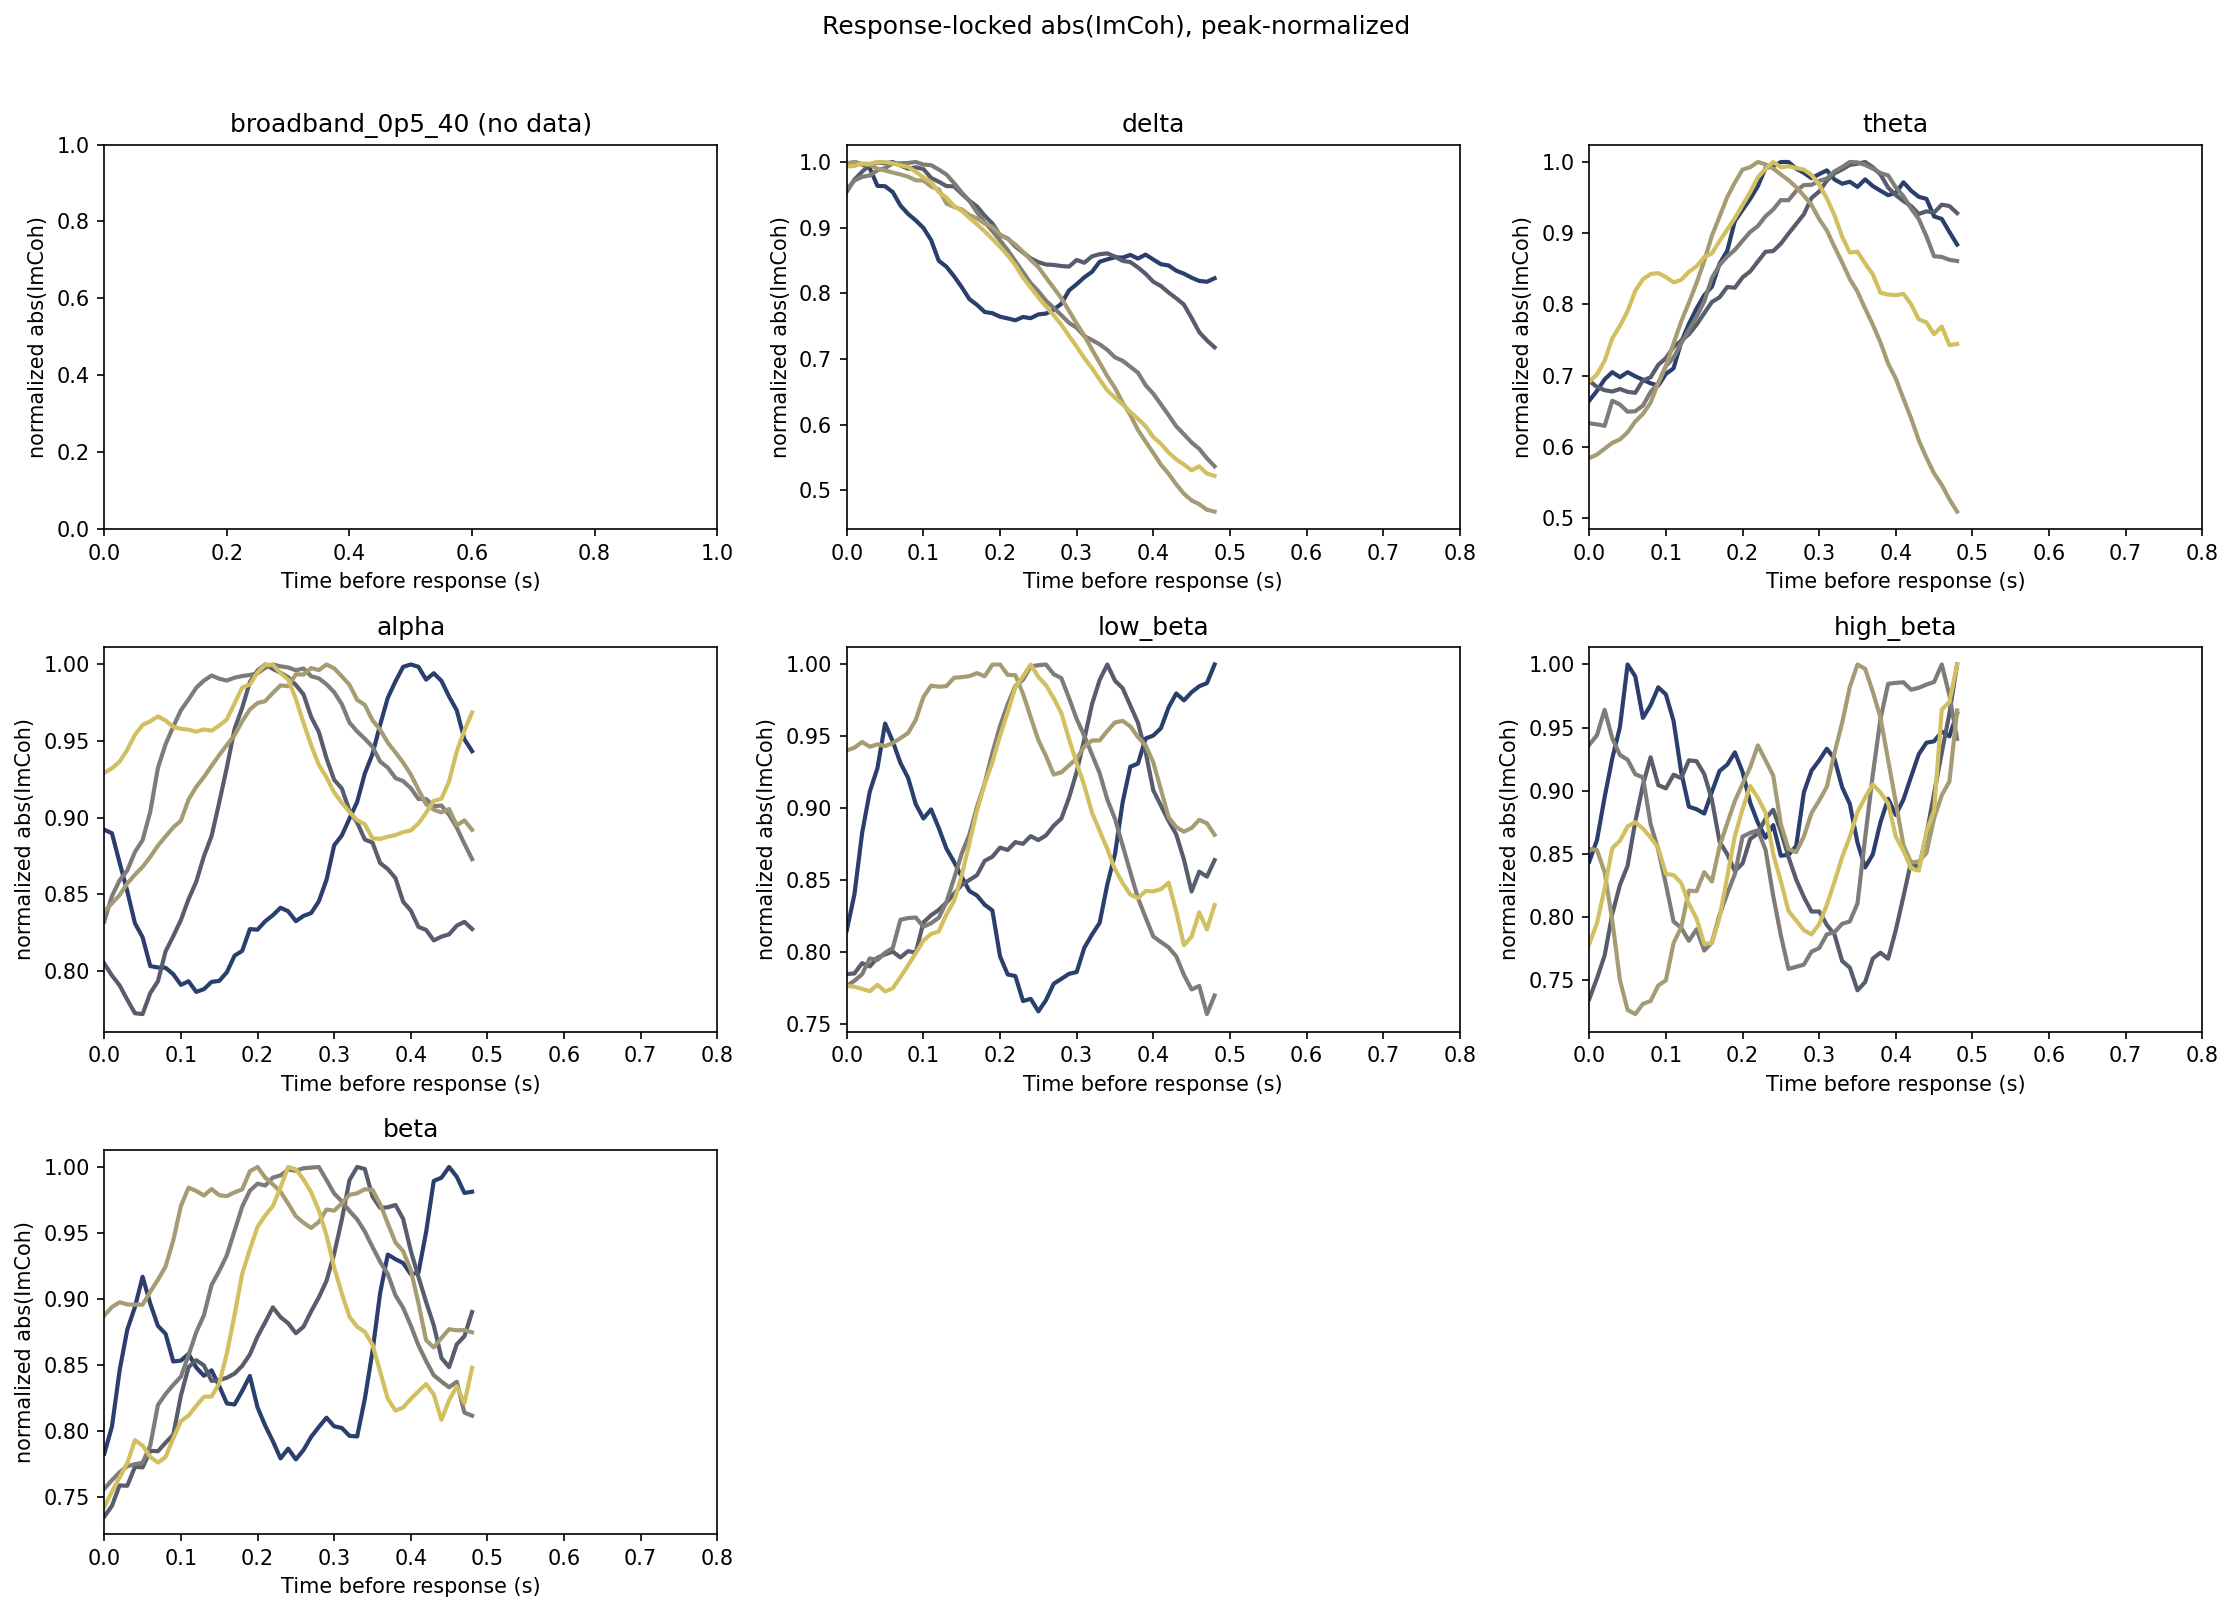
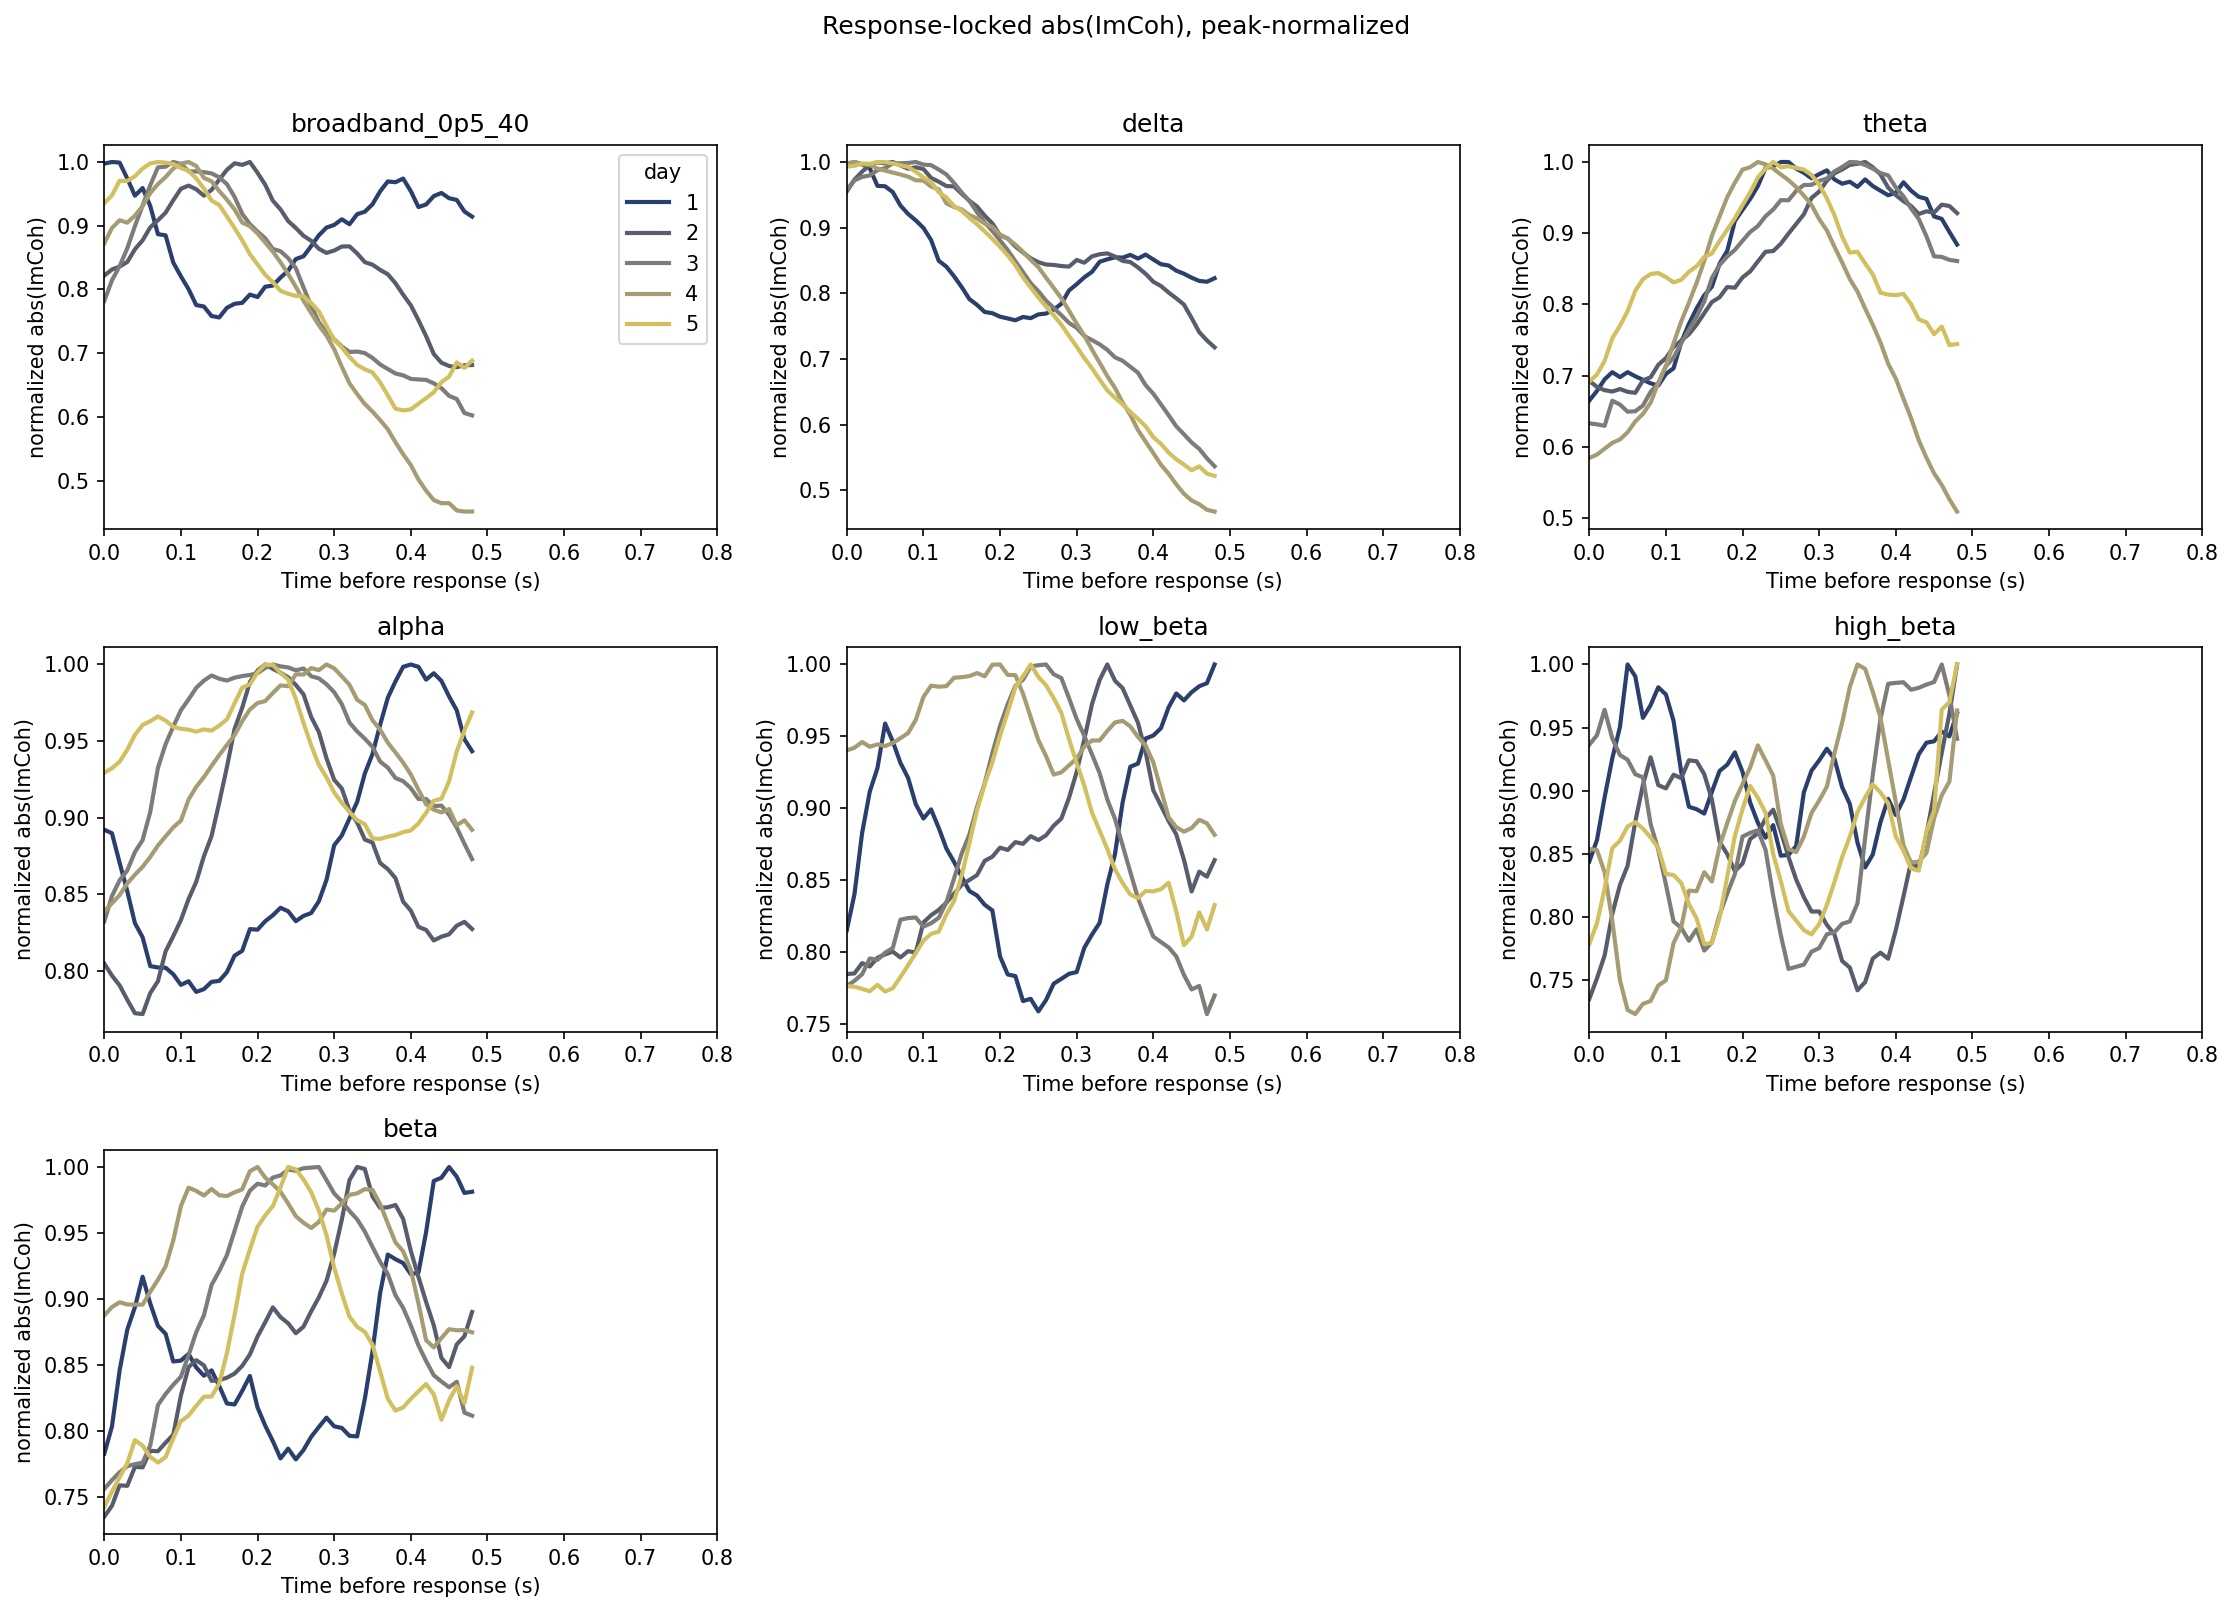
new figs

diff --git a/code/util_func_connect.py b/code/util_func_connect.py
@@ -214,6 +214,8 @@ def util_connect_compute_visual_motor(save_figures: bool = True, run_compute: bo
         if d_lock.empty:
             print(f"No connectivity values computed for {fig_name}.")
             return
+        d_lock = d_lock.copy()
+        d_lock["band"] = d_lock["band"].replace({"all": "broadband_0p5_40"})
 
         d_time = (
             d_lock.groupby(["band", "day", "lock_time"], as_index=False)["conn_val"]
